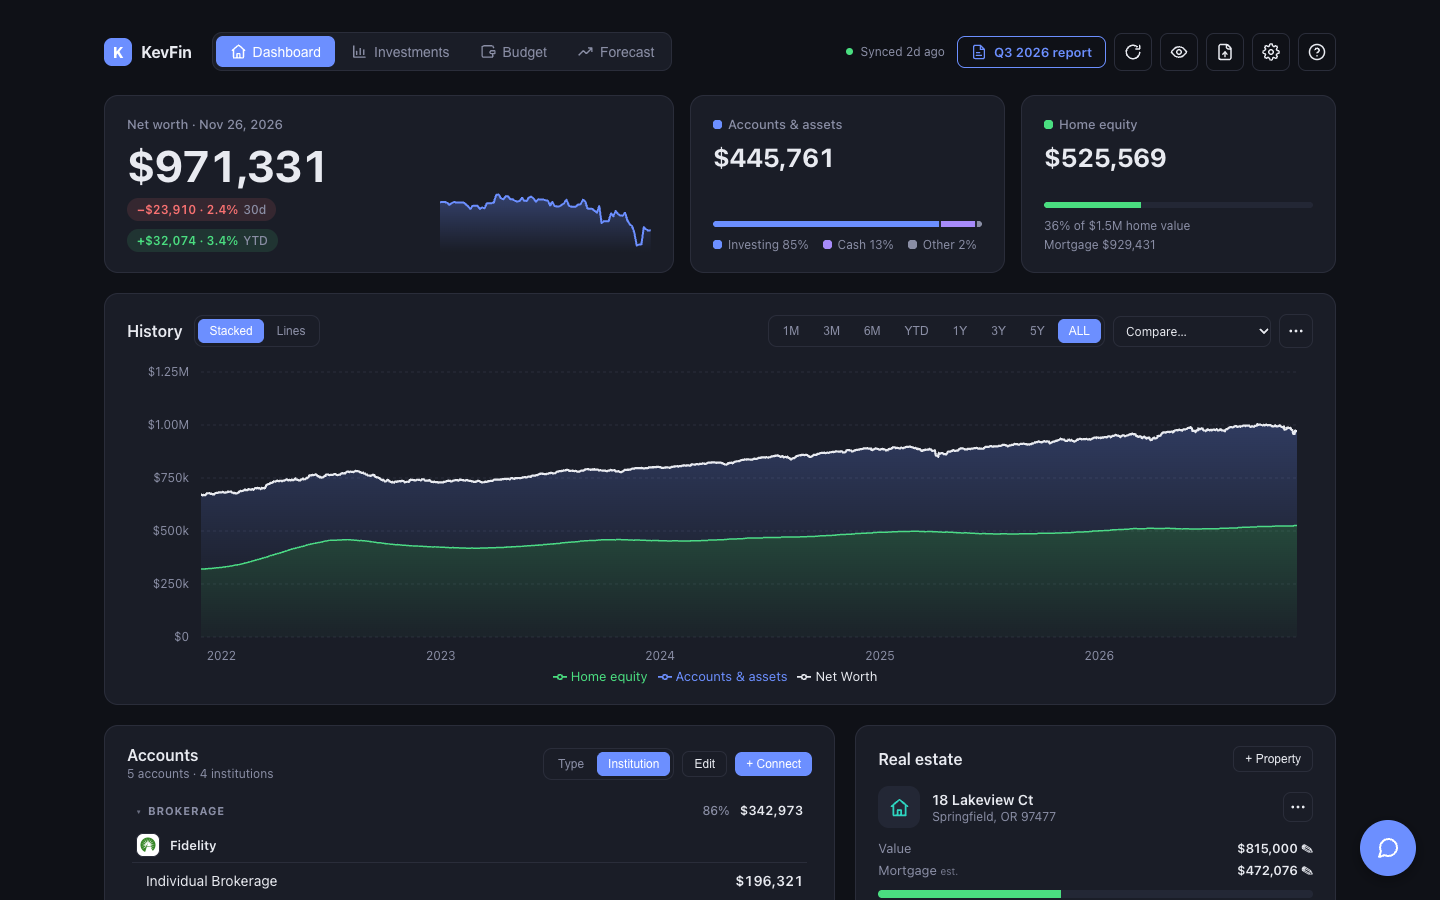
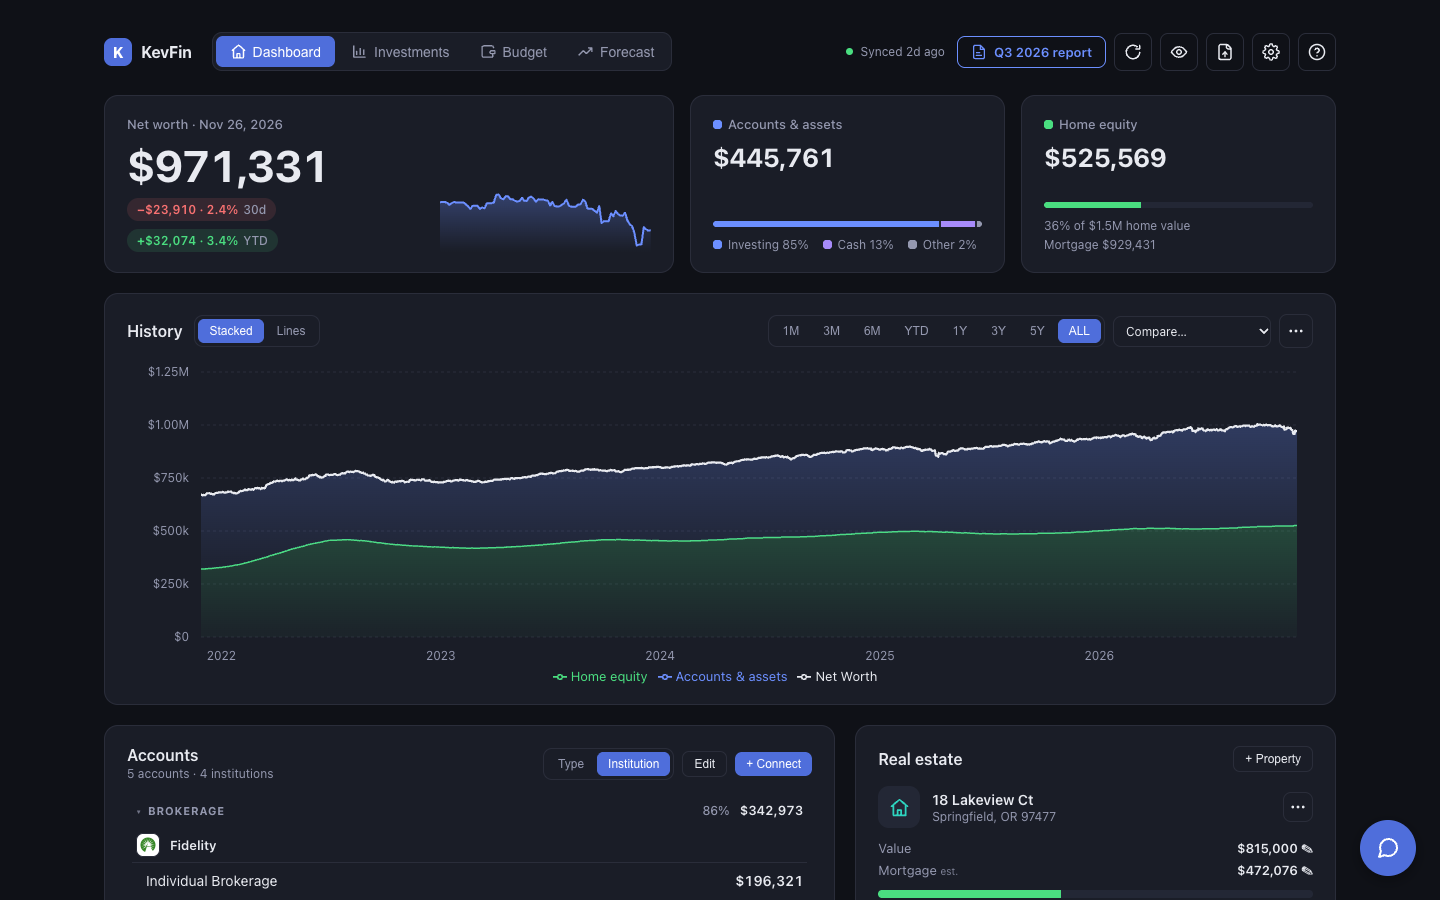
fix: Midnight and Mist meet the same contrast floors as Ember (#65)
Give Midnight's filled controls a deeper step of the same blue and its danger button a deeper red, so white text on them passes 4.5:1; lift Midnight's muted text slightly. Darken Mist's muted, accent, green and amber by a few percent and its cash-flow spending line to 3.4:1. New fill tokens default to the accent and red, so Ember is unchanged. Hold all three themes to one set of contrast floors in the test. Retake the Midnight and Mist README pictures. Release v1.30.1.

diff --git a/client/src/index.css b/client/src/index.css
@@ -6,8 +6,10 @@
   --surface-2: #232735;
   --border: #2a2d3a;
   --text: #e8eaf0;
-  /* Lifted from #7b7f95 (4.25:1 on cards) to pass WCAG AA for small text (5.2:1). */
-  --muted: #8a8ea5;
+  /* Lifted from #7b7f95 (4.25:1 on cards) to pass WCAG AA for small text on
+     every surface it sits on: 5.9:1 on cards, 5.2:1 on --surface-2, 4.9:1 on the
+     accent-dim wash and 4.6:1 inside the green change chip. */
+  --muted: #9498af;
   --accent: #6c8fff;
   --accent-hover: #88a2ff;
   --accent-dim: rgba(108, 143, 255, 0.12);
@@ -20,6 +22,13 @@
   --imported-dim: rgba(192, 132, 252, 0.14);
   /* Text/icons drawn ON an accent fill (active nav pill, primary button). */
   --on-accent: #fff;
+  /* The fills behind that text: primary buttons, the active nav tab and
+     segmented control, the chat button. They follow the accent (and the red, for
+     the danger button) unless a theme's accent is too light to carry white text;
+     Midnight's is, so it deepens them just below. */
+  --accent-fill: var(--accent);
+  --accent-fill-hover: var(--accent-hover);
+  --danger-fill: var(--red);
   /* Secondary series colour (529 bucket, college markers) — distinct from accent. */
   --accent-2: #a78bfa;
   /* Mortgage paid-off marker on the Forecast chart. */
@@ -63,6 +72,16 @@
   color-scheme: dark;
   font-family: -apple-system, BlinkMacSystemFont, 'Segoe UI', sans-serif;
 }
+/* Midnight only (no data-theme attribute). White on #6c8fff is 3.0:1, so filled
+   controls take a deeper step of the same blue: white on it is 4.6:1 (5.4:1 on
+   the hover, which darkens rather than lightens) and it still stands 3.7:1 off
+   the cards. The danger red deepens the same way (white 4.6:1). The lighter
+   accent stays for text, lines and bars, where it reads well on the dark. */
+:root:not([data-theme]) {
+  --accent-fill: #4f6edb;
+  --accent-fill-hover: #4462cd;
+  --danger-fill: #cb494c;
+}
 
 /* Themes (Setup → Appearance). :root above is "Midnight", the original look.
    Each theme only redefines tokens, so every component follows automatically;
@@ -75,21 +94,27 @@
   --surface-2: #e6ebf1;
   --border: #d6dee8;
   --text: #14202b;
-  --muted: #5f6f80;
+  --muted: #586676;
   /* Deep cyan rather than teal, so the accent (net worth) stays clearly apart
      from the gains/home-equity green. */
-  --accent: #0e7490;
+  --accent: #0e728e;
   --accent-hover: #0b5d73;
-  --accent-dim: rgba(14, 116, 144, 0.1);
+  --accent-dim: rgba(14, 114, 142, 0.1);
   --on-accent: #fff;
   --accent-2: #2563eb;
-  /* Darker semantic colours so they keep contrast on white. */
-  --green: #15803d;
+  /* Darker semantic colours so they keep 4.5:1 as text on every light surface,
+     --surface-2 and the green chip's own tint included. */
+  --green: #13793a;
   --red: #c2362c;
-  --amber: #b45309;
+  --amber: #ab4e08;
+  /* A shade under the red, so the danger button's hover (85% opacity over a
+     card) still carries its white text at 4.5:1. */
+  --danger-fill: #b73329;
   --imported: #be185d;
   --imported-dim: rgba(190, 24, 93, 0.08);
   --teal: #0f766e;
+  /* Midnight's #fb923c is 2.3:1 on white, too faint for a chart line. */
+  --cf-spend: #d56f00;
   --chart-1: #2a78d6;
   --chart-2: #eb6834;
   --chart-3: #1baf7a;
@@ -225,13 +250,13 @@ input[type='number'] { -moz-appearance: textfield; appearance: textfield; }
 input[type='number']::-webkit-outer-spin-button,
 input[type='number']::-webkit-inner-spin-button { -webkit-appearance: none; margin: 0; }
 
-.btn-primary { background: var(--accent); color: var(--on-accent); }
-.btn-primary:hover:not(:disabled) { background: var(--accent-hover); }
+.btn-primary { background: var(--accent-fill); color: var(--on-accent); }
+.btn-primary:hover:not(:disabled) { background: var(--accent-fill-hover); }
 
 .btn-ghost { background: transparent; border: 1px solid var(--border); color: var(--text); }
 .btn-ghost:hover:not(:disabled) { background: var(--surface-2); border-color: var(--muted); }
 
-.btn-danger { background: var(--red); color: #fff; }
+.btn-danger { background: var(--danger-fill); color: #fff; }
 .btn-danger:hover:not(:disabled) { opacity: 0.85; }
 
 /* Compact variant — slimmer padding/radius for dense toolbars (e.g. the Forecast
@@ -244,8 +269,8 @@ input[type='number']::-webkit-inner-spin-button { -webkit-appearance: none; marg
 .seg { display: inline-flex; gap: 2px; background: var(--surface); border: 1px solid var(--border); border-radius: 9px; padding: 3px; }
 .seg-btn { background: transparent; color: var(--muted); border-radius: 6px; padding: 5px 11px; font-size: 12px; font-weight: 500; white-space: nowrap; }
 .seg-btn:hover:not(:disabled) { background: var(--surface-2); color: var(--text); }
-.seg-btn.active { background: var(--accent); color: var(--on-accent); }
-.seg-btn.active:hover:not(:disabled) { background: var(--accent-hover); color: var(--on-accent); }
+.seg-btn.active { background: var(--accent-fill); color: var(--on-accent); }
+.seg-btn.active:hover:not(:disabled) { background: var(--accent-fill-hover); color: var(--on-accent); }
 
 /* Segmented top navigation — replaces the row of loud solid buttons */
 .nav-group {
@@ -267,8 +292,8 @@ input[type='number']::-webkit-inner-spin-button { -webkit-appearance: none; marg
   font-weight: 500;
 }
 .nav-btn:hover:not(:disabled) { background: var(--surface-2); color: var(--text); }
-.nav-btn.active { background: var(--accent); color: var(--on-accent); }
-.nav-btn.active:hover:not(:disabled) { background: var(--accent-hover); color: var(--on-accent); }
+.nav-btn.active { background: var(--accent-fill); color: var(--on-accent); }
+.nav-btn.active:hover:not(:disabled) { background: var(--accent-fill-hover); color: var(--on-accent); }
 
 /* Compact icon-only action buttons (Hide, Refresh) */
 .btn-icon {
@@ -295,7 +320,7 @@ input[type='number']::-webkit-inner-spin-button { -webkit-appearance: none; marg
 .wordmark { display: inline-flex; align-items: center; gap: 9px; font-size: 16px; font-weight: 700; letter-spacing: -0.2px; }
 .wordmark-logo {
   width: 28px; height: 28px; border-radius: 8px; display: grid; place-items: center;
-  background: var(--accent); color: var(--on-accent); font-size: 15px; font-weight: 800;
+  background: var(--accent-fill); color: var(--on-accent); font-size: 15px; font-weight: 800;
 }
 .topnav-status { display: inline-flex; align-items: center; gap: 7px; padding: 0 4px; font-size: 12px; color: var(--muted); white-space: nowrap; }
 .status-dot { width: 7px; height: 7px; border-radius: 50%; background: var(--green); flex-shrink: 0; }
@@ -978,7 +1003,7 @@ select.bud-fchip { padding: 4px 8px; cursor: pointer; }
 .fc-scn-form { display: flex; flex-wrap: wrap; align-items: center; gap: 6px; width: 100%; }
 .fc-scn-form input { flex: 1 1 150px; min-width: 0; font-size: 13px; padding: 6px 10px; }
 .db-menu .fc-scn-form button { display: inline-block; width: auto; text-align: center; }
-.db-menu .fc-scn-form .btn-primary, .db-menu .fc-scn-form .btn-primary:hover:not(:disabled) { background: var(--accent); color: var(--on-accent); }
+.db-menu .fc-scn-form .btn-primary, .db-menu .fc-scn-form .btn-primary:hover:not(:disabled) { background: var(--accent-fill); color: var(--on-accent); }
 .fc-scn-msg { margin: 0; padding: 4px 10px 2px; font-size: 12px; color: var(--muted); }
 .fc-scn-msg:empty { display: none; }
 .fc-scn-msg.error { color: var(--red); }
@@ -1141,6 +1166,8 @@ select.bud-fchip { padding: 4px 8px; cursor: pointer; }
   --accent-hover: #23497f;
   --accent-dim: rgba(44, 90, 160, 0.1);
   --on-accent: #fff;
+  --accent-fill: var(--accent);
+  --accent-fill-hover: var(--accent-hover);
   --chart-bg: #ffffff;
   --chart-1: #2a78d6;
   --chart-2: #eb6834;
@@ -1372,7 +1399,7 @@ button.inv-kpi:hover:not(:disabled) { border-color: var(--muted); }
 .wel-steps li { counter-increment: wel-step; position: relative; padding-left: 36px; min-width: 0; }
 .wel-steps li::before {
   content: counter(wel-step); position: absolute; left: 0; top: 0;
-  width: 24px; height: 24px; border-radius: 50%; background: var(--accent); color: var(--on-accent);
+  width: 24px; height: 24px; border-radius: 50%; background: var(--accent-fill); color: var(--on-accent);
   font-size: 12px; font-weight: 700; display: grid; place-items: center;
 }
 .wel-steps b { font-size: 14px; font-weight: 700; line-height: 24px; }

diff --git a/client/src/lib/themeContrast.test.ts b/client/src/lib/themeContrast.test.ts
@@ -3,9 +3,10 @@ import { readFileSync } from 'node:fs';
 import { fileURLToPath } from 'node:url';
 
 // Contrast floors for the theme tokens in index.css, read straight from the CSS
-// so a later edit to a token can't quietly drop text below WCAG AA. Ember is held
-// to the full set its palette was built to; Midnight and Mist to the pairs they
-// already meet (a regression guard, not a redesign).
+// so a later edit to a token can't quietly drop text below WCAG AA. All three
+// themes are held to the same floors: body and muted text 4.5:1 on every surface
+// they sit on, accent and semantic colours 4.5:1 as text and 3:1 as chart lines,
+// and the text on a filled control (accent or danger, at rest and on hover) 4.5:1.
 const css = readFileSync(fileURLToPath(new URL('../index.css', import.meta.url)), 'utf8');
 
 function block(selector: string): Record<string, string> {
@@ -16,16 +17,22 @@ function block(selector: string): Record<string, string> {
   return out;
 }
 const root = block(':root');
-const theme = (id: string) => (id === 'midnight' ? root : { ...root, ...block(`:root[data-theme="${id}"]`) });
+// Midnight is the bare :root plus the few tokens only it overrides (its deeper
+// button fills); every other theme layers its own block on :root.
+const theme = (id: string) => ({ ...root, ...block(id === 'midnight' ? ':root:not([data-theme])' : `:root[data-theme="${id}"]`) });
 
 type Rgb = [number, number, number];
 function rgb(tokens: Record<string, string>, value: string): Rgb {
-  const v = value.match(/^var\(--([\w-]+)\)$/) ? tokens[value.slice(6, -1)] : value;
+  let v = value;
+  while (/^var\(--[\w-]+\)$/.test(v)) v = tokens[v.slice(6, -1)];
   let h = v.replace('#', '');
   if (h.length === 3) h = [...h].map(c => c + c).join('');
   if (!/^[0-9a-f]{6}$/i.test(h)) throw new Error(`not a hex colour: ${value}`);
   return [0, 2, 4].map(i => parseInt(h.slice(i, i + 2), 16)) as Rgb;
 }
+// An opaque colour at `a` over another: color-mix(in srgb, fg a%, transparent)
+// over a card, or a button faded by opacity.
+const mixed = (fg: Rgb, bg: Rgb, a: number) => fg.map((c, i) => Math.round(c * a + bg[i] * (1 - a))) as Rgb;
 // rgba(r, g, b, a) composited over an opaque colour.
 function over(rgba: string, bg: Rgb): Rgb {
   const m = rgba.match(/rgba\((\d+),\s*(\d+),\s*(\d+),\s*([\d.]+)\)/);
@@ -44,6 +51,10 @@ function check(id: string, pairs: [fg: string, bg: string, min: number][]) {
   const surface = (name: string): Rgb => {
     if (name === 'accent-dim/card') return over(t['accent-dim'], rgb(t, t.surface));
     if (name === 'accent-dim/bg') return over(t['accent-dim'], rgb(t, t.bg));
+    // The change chips (.db-chip.up/.down): 12% of their own colour over a card.
+    if (name === 'green-chip' || name === 'red-chip') return mixed(rgb(t, t[name.slice(0, -5)]), rgb(t, t.surface), 0.12);
+    // The danger button's hover (.btn-danger:hover is 85% opacity) over a card.
+    if (name === 'danger-fill/hover') return mixed(rgb(t, t['danger-fill']), rgb(t, t.surface), 0.85);
     return rgb(t, t[name]);
   };
   const misses = pairs
@@ -55,30 +66,33 @@ function check(id: string, pairs: [fg: string, bg: string, min: number][]) {
 
 const TEXT_ON = (fg: string, surfaces: string[], min = 4.5) => surfaces.map(s => [fg, s, min] as [string, string, number]);
 
+// The one set of floors every theme is held to.
+const FLOORS: [fg: string, bg: string, min: number][] = [
+  ...['text', 'muted'].flatMap(k => TEXT_ON(k, ['bg', 'surface', 'surface-2', 'accent-dim/card', 'accent-dim/bg'])),
+  ...['accent', 'green', 'red', 'amber', 'imported', 'spend'].flatMap(k => TEXT_ON(k, ['bg', 'surface', 'surface-2'])),
+  ['accent', 'accent-dim/card', 4.5],
+  // A change chip's figure and its muted note, on the chip's own tint.
+  ['green', 'green-chip', 4.5], ['red', 'red-chip', 4.5], ...TEXT_ON('muted', ['green-chip', 'red-chip']),
+  // Text on a filled control: primary buttons, the active nav tab and segmented
+  // control, the chat button (--accent-fill), and the danger button.
+  ...TEXT_ON('on-accent', ['accent-fill', 'accent-fill-hover', 'danger-fill', 'danger-fill/hover']),
+  // A filled control still stands off the card it sits on.
+  ['accent-fill', 'surface', 3], ['accent-fill-hover', 'surface', 3],
+  // Chart lines and fills against the card and the ground.
+  ...['accent', 'green', 'red', 'amber', 'cf-spend', 'accent-2', 'teal', 'scn-1', 'scn-2', 'scn-3', 'scn-4'].flatMap(k => TEXT_ON(k, ['bg', 'surface'], 3)),
+];
+
 describe('theme contrast', () => {
-  it('Ember: body and muted text on every surface, semantics and accent as text, white on the accent', () => {
-    const all = ['bg', 'surface', 'surface-2', 'accent-dim/card', 'accent-dim/bg'];
-    check('ember', [
-      ...TEXT_ON('text', all), ...TEXT_ON('muted', all),
-      ...['accent', 'green', 'red', 'amber', 'imported', 'spend'].flatMap(k => TEXT_ON(k, ['bg', 'surface', 'surface-2'])),
-      ['on-accent', 'accent', 4.5], ['on-accent', 'accent-hover', 4.5],
-      // Chart lines and fills against the card and the ground.
-      ...['cf-spend', 'accent-2', 'teal', 'scn-1', 'scn-2', 'scn-3', 'scn-4'].flatMap(k => TEXT_ON(k, ['bg', 'surface'], 3)),
-    ]);
-  });
+  it.each(['midnight', 'mist', 'ember'])('%s meets every floor', id => check(id, FLOORS));
 
-  it('Mist keeps the pairs it meets today', () => {
-    check('mist', [
-      ...TEXT_ON('text', ['bg', 'surface', 'surface-2']), ...TEXT_ON('muted', ['bg', 'surface']),
-      ...['accent', 'green', 'red', 'amber'].flatMap(k => TEXT_ON(k, ['surface'])),
-      ['on-accent', 'accent', 4.5],
-    ]);
-  });
-
-  it('Midnight keeps the pairs it meets today', () => {
-    check('midnight', [
-      ...TEXT_ON('text', ['bg', 'surface', 'surface-2']), ...TEXT_ON('muted', ['bg', 'surface', 'surface-2']),
-      ...['accent', 'green', 'red', 'amber'].flatMap(k => TEXT_ON(k, ['bg', 'surface', 'surface-2'])),
-    ]);
+  it('the button fills follow the accent and the red unless a theme deepens them', () => {
+    // Ember and Mist carry white on their own accent, so their primary buttons
+    // must stay the accent; Midnight's is too light for white and is overridden.
+    for (const id of ['mist', 'ember']) {
+      const t = theme(id);
+      expect(rgb(t, t['accent-fill'])).toEqual(rgb(t, t.accent));
+      expect(rgb(t, t['accent-fill-hover'])).toEqual(rgb(t, t['accent-hover']));
+    }
+    expect(rgb(theme('ember'), 'var(--danger-fill)')).toEqual(rgb(theme('ember'), 'var(--red)'));
   });
 });

diff --git a/client/src/components/RuleSuggestModal.tsx b/client/src/components/RuleSuggestModal.tsx
@@ -85,7 +85,7 @@ export default function RuleSuggestModal({ ctx, onClose, onApplied, zIndex = 420
                 style={{ display: 'flex', alignItems: 'center', gap: 10, padding: '10px 12px', borderRadius: 10, cursor: 'pointer',
                   border: `1px solid ${on ? 'var(--accent)' : 'var(--border)'}`, background: on ? 'var(--accent-dim)' : 'var(--bg)' }}>
                 <span aria-hidden="true" style={{ width: 16, height: 16, borderRadius: 4, flexShrink: 0, display: 'flex', alignItems: 'center', justifyContent: 'center',
-                  fontSize: 11, color: 'var(--on-accent)', border: `1px solid ${on ? 'var(--accent)' : 'var(--border)'}`, background: on ? 'var(--accent)' : 'transparent' }}>{on ? '✓' : ''}</span>
+                  fontSize: 11, color: 'var(--on-accent)', border: `1px solid ${on ? 'var(--accent-fill)' : 'var(--border)'}`, background: on ? 'var(--accent-fill)' : 'transparent' }}>{on ? '✓' : ''}</span>
                 <span style={{ flex: 1, fontSize: 13, minWidth: 0, overflow: 'hidden', textOverflow: 'ellipsis', whiteSpace: 'nowrap' }}>{maskAmounts(c.label, privacy)}</span>
                 <span style={{ fontSize: 11, color: 'var(--muted)', flexShrink: 0 }}>{c.count} alone</span>
               </div>

diff --git a/client/src/components/AiAssistant.tsx b/client/src/components/AiAssistant.tsx
@@ -191,7 +191,7 @@ const MessageBubble = memo(function MessageBubble({ message, index, pending, lar
         // A chart needs the room; text-only bubbles keep the chat-style inset.
         maxWidth: hasChart ? '100%' : '85%',
         width: hasChart ? '100%' : undefined,
-        background: isUser ? 'var(--accent)' : 'var(--bg)',
+        background: isUser ? 'var(--accent-fill)' : 'var(--bg)',
         color: isUser ? 'var(--on-accent)' : 'var(--text)',
         border: isUser ? 'none' : '1px solid var(--border)',
         borderRadius: 12, padding: '9px 12px',
@@ -361,7 +361,7 @@ export default function AiAssistant({ view }: { view: AssistantView }) {
         style={{
           position: 'fixed', bottom: 24 + lift, right: 24, zIndex: 1000,
           width: 56, height: 56, borderRadius: '50%', padding: 0,
-          background: 'var(--accent)', color: 'var(--on-accent)',
+          background: 'var(--accent-fill)', color: 'var(--on-accent)',
           display: 'flex', alignItems: 'center', justifyContent: 'center',
           boxShadow: '0 4px 14px rgba(0,0,0,0.35)',
         }}

diff --git a/client/src/components/Setup.tsx b/client/src/components/Setup.tsx
@@ -265,7 +265,7 @@ function AssistantRow() {
           {busy ? <Spinner /> : (on ? 'On' : 'Off')}
           <span style={{
             width: 38, height: 22, borderRadius: 11, padding: 2, boxSizing: 'border-box',
-            background: on ? 'var(--accent)' : 'var(--border)', transition: 'background 0.15s',
+            background: on ? 'var(--accent-fill)' : 'var(--border)', transition: 'background 0.15s',
             display: 'inline-flex', justifyContent: on ? 'flex-end' : 'flex-start',
           }}>
             <span style={{ width: 18, height: 18, borderRadius: '50%', background: on ? 'var(--on-accent)' : 'var(--surface)', boxShadow: '0 1px 2px rgba(0,0,0,0.3)' }} />

diff --git a/client/src/lib/theme.ts b/client/src/lib/theme.ts
@@ -19,7 +19,7 @@ export const THEMES: ThemeInfo[] = [
   { id: 'midnight', label: 'Midnight', hint: 'Original dark blue',
     preview: { bg: '#0f1117', surface: '#1a1d27', accent: '#6c8fff', accent2: '#a78bfa' } },
   { id: 'mist', label: 'Mist', hint: 'Cool light gray with cyan',
-    preview: { bg: '#eef2f6', surface: '#ffffff', accent: '#0e7490', accent2: '#2563eb' } },
+    preview: { bg: '#eef2f6', surface: '#ffffff', accent: '#0e728e', accent2: '#2563eb' } },
   { id: 'ember', label: 'Ember', hint: 'Warm cream with burnt orange',
     preview: { bg: '#fbf6ea', surface: '#ffffff', accent: '#b93d0b', accent2: '#2563eb' } },
 ];

diff --git a/client/src/pages/Recurring.tsx b/client/src/pages/Recurring.tsx
@@ -240,7 +240,7 @@ export default function Recurring({ onNavigate, privacy, onTogglePrivacy, embedd
                   onClick={() => setCatFilter(c)}
                   style={{
                     fontSize: 12, padding: '4px 10px', borderRadius: 14,
-                    background: catFilter === c ? 'var(--accent)' : 'var(--surface)',
+                    background: catFilter === c ? 'var(--accent-fill)' : 'var(--surface)',
                     color: catFilter === c ? 'var(--on-accent)' : 'var(--muted)',
                     border: '1px solid var(--border)',
                     cursor: 'pointer',

diff --git a/client/src/components/CashFlowSankey.tsx b/client/src/components/CashFlowSankey.tsx
@@ -389,7 +389,7 @@ export default function CashFlowSankey({ privacy, cats, groups, onRecategorize, 
                 })()}
                 style={{
                 fontSize: 12, padding: '4px 10px', borderRadius: 6, cursor: 'pointer',
-                background: rangeKey === r.key ? 'var(--accent)' : 'var(--bg)',
+                background: rangeKey === r.key ? 'var(--accent-fill)' : 'var(--bg)',
                 color: rangeKey === r.key ? 'var(--on-accent)' : 'var(--muted)',
                 border: '1px solid var(--border)',
               }}>{r.label}</button>
